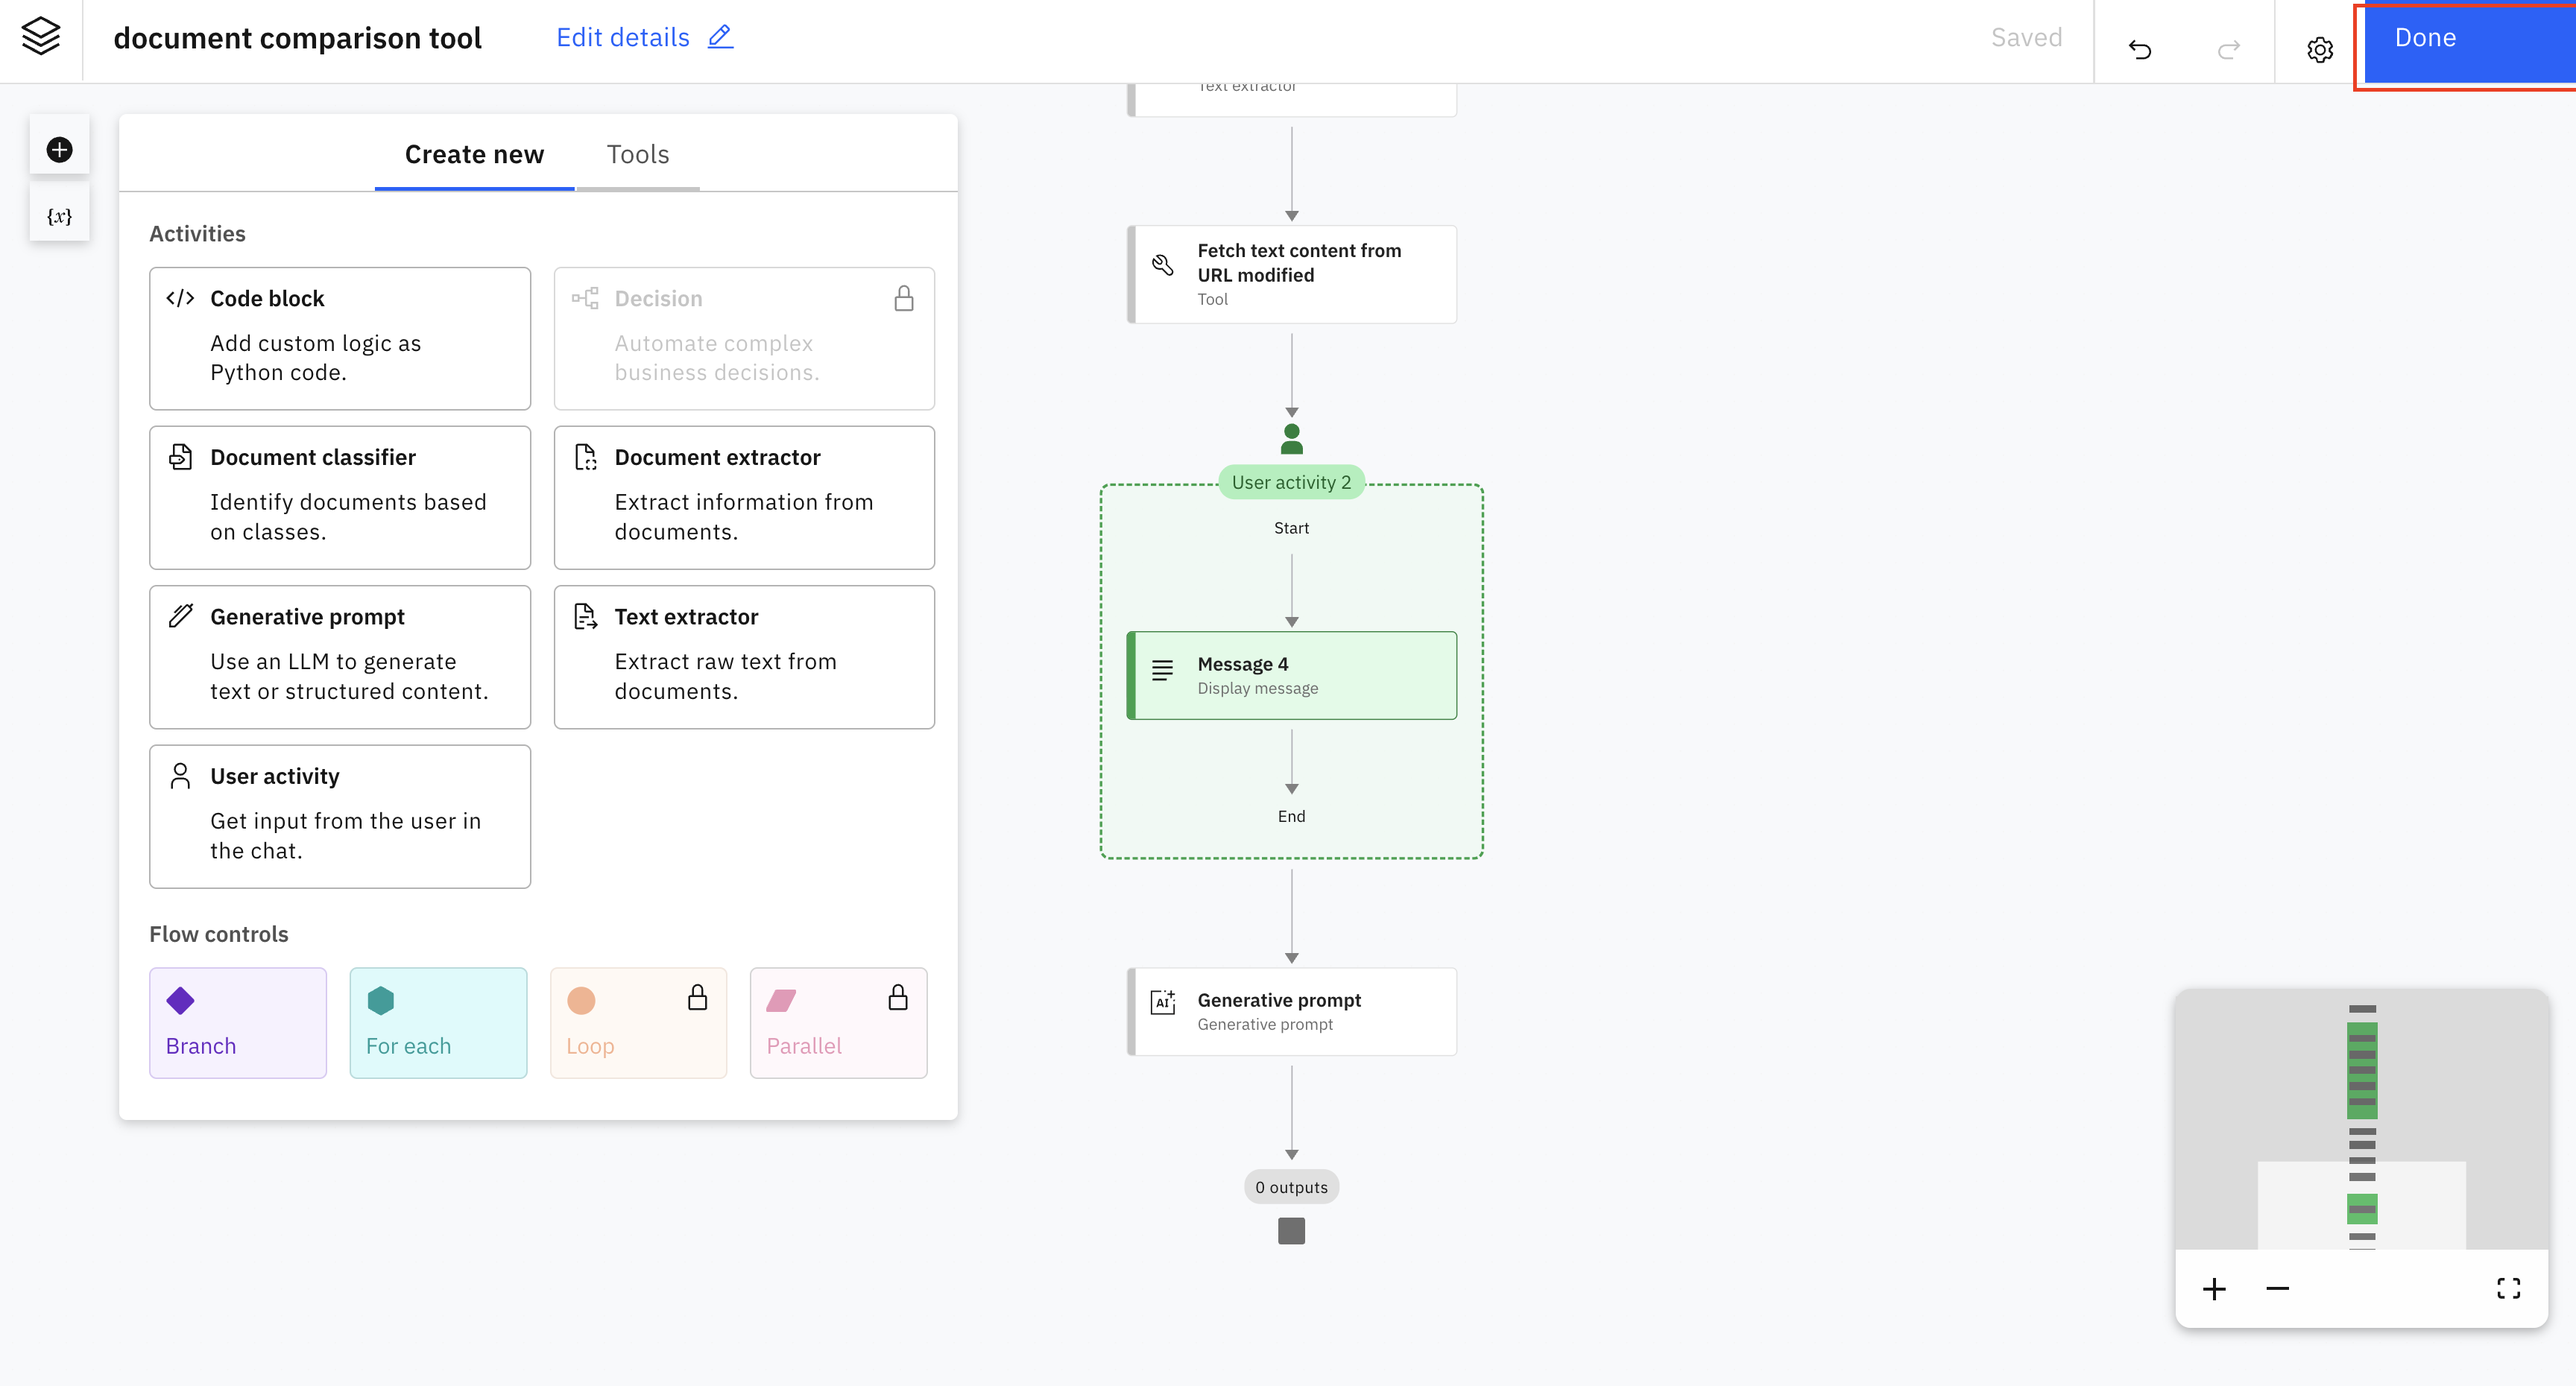
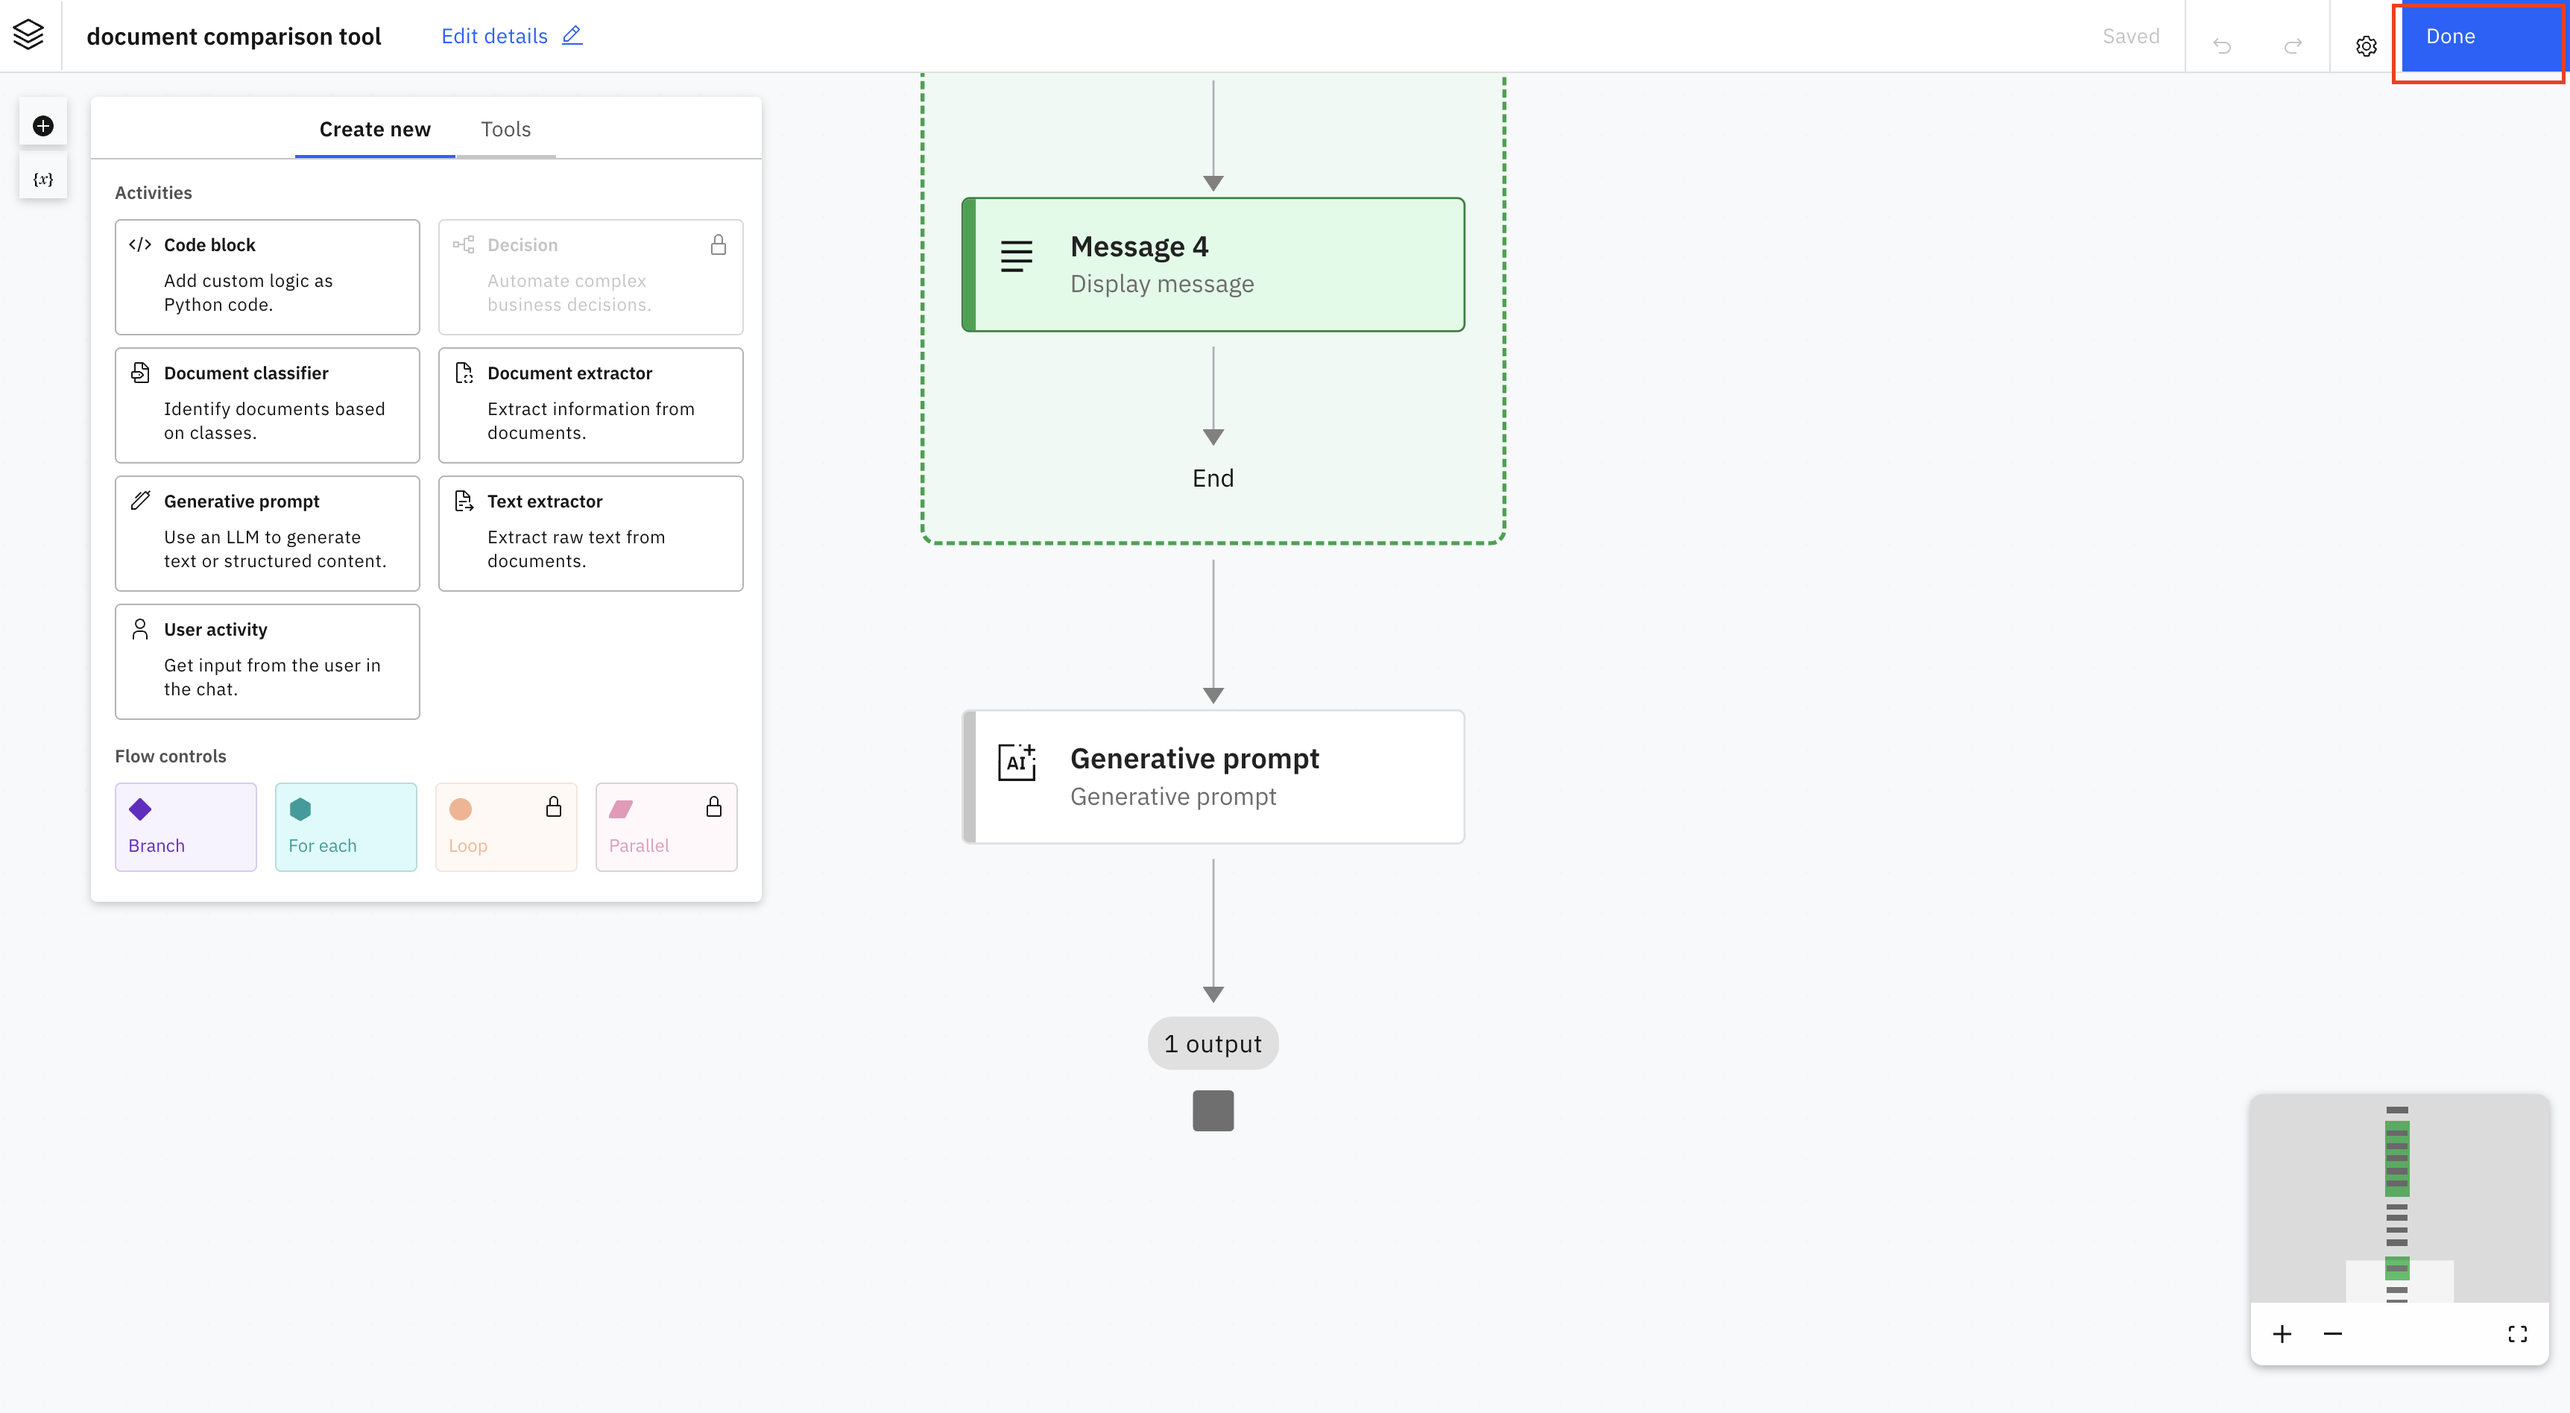
Updated readme

diff --git a/README.md b/README.md
@@ -583,6 +583,22 @@ Here are the original and modified versions of the same document that I want you
 
   ![Close](images/prompt_close.png)
 
+78. Double click on the **Output** node.
+79. Click on the **Add** button.
+
+  ![Output Add button](images/output_add.png)
+
+80. Select **String**
+
+  ![Select String](images/data_type.png)
+
+81. In the **Name** field, enter the following and click the **Add** button
+  ```
+  output
+  ```
+  ![Output Name](images/output_variable.png)
+
+82. 
 78. You have now completed the workflow. Click **Done** to close the flow.
 
   ![Done](images/done.png)
@@ -643,7 +659,7 @@ To deploy the Legal Contract Comparison Agent
 1. Turn on the toggle button for Home page so that your agent shows up in the watsonx Orchestrate Chat home page, once deployed.
 
   ![Toggle button](images/toggle_button.png)
-  
+
 2. Click the **Deploy** button in the top-right corner to deploy your agent.
 
   ![Deploy](images/deploy_button.png)
